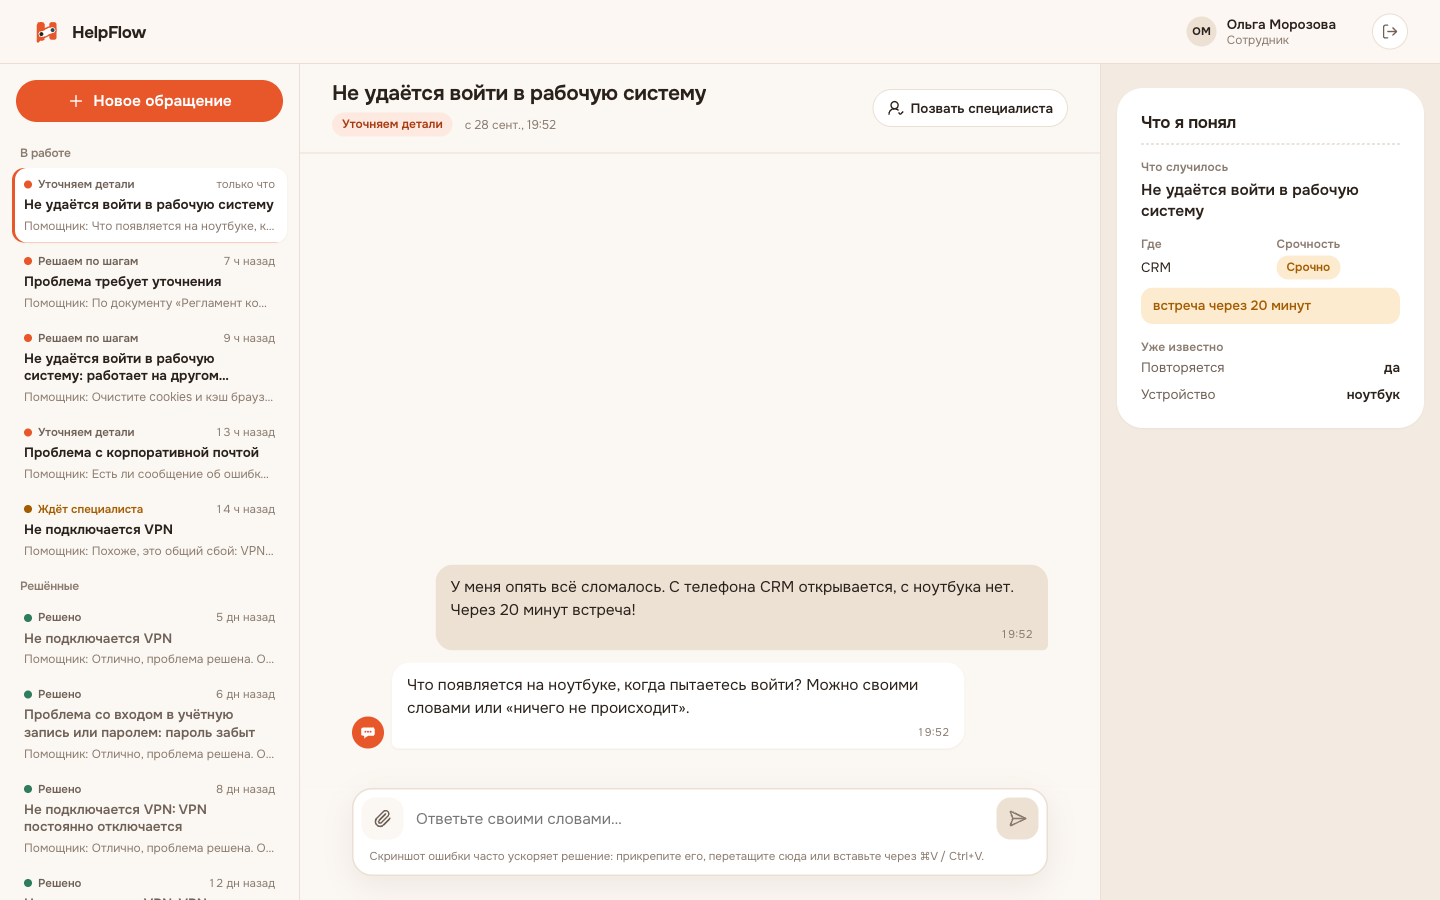
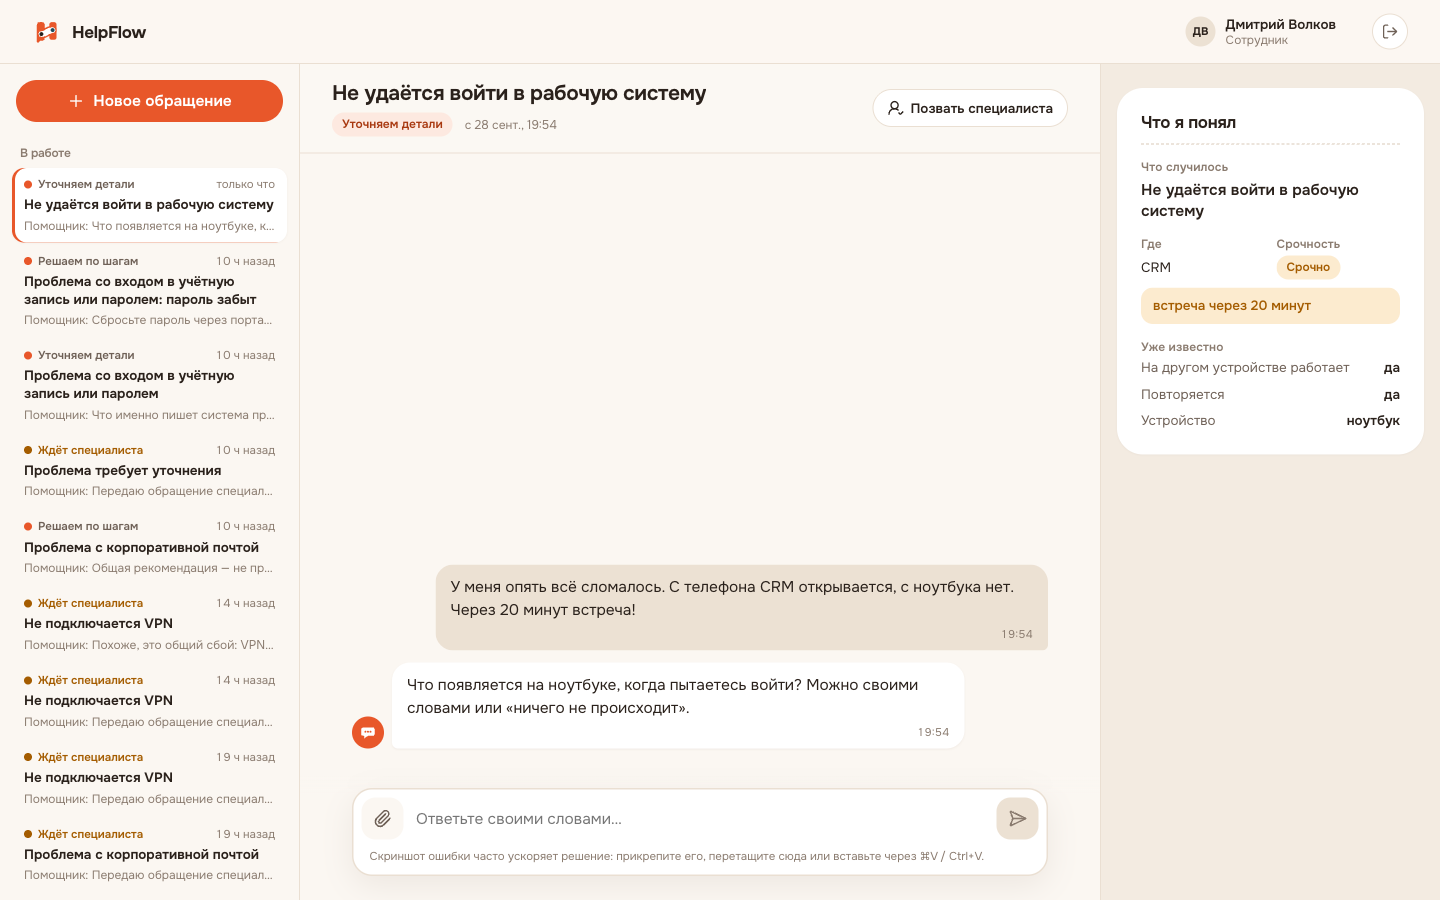
docs: fresh employee screenshots — known outage, quick replies, document answer

Changed region(s): [[0.0, 0.3111, 0.1875, 1.0], [0.75, 0.4044, 1.0, 0.5289], [0.8438, 0.0, 0.9062, 0.0622]]

diff --git a/README.md b/README.md
@@ -80,7 +80,11 @@ cd apps/api && PYTHONPATH=../../services/ai python -m app.eval_dialogues --seman
 
 | Приветствие | Шаг решения |
 |---|---|
-| ![Что случилось?](docs/screenshots/01-welcome.png) | ![Карточка шага](docs/screenshots/03-step.png) |
+| ![Что случилось? и известный сбой](docs/screenshots/01-welcome.png) | ![Карточка шага](docs/screenshots/03-step.png) |
+
+| Непонятный запрос — один вопрос с вариантами | Правила компании — ответ по документу с цитатой |
+|---|---|
+| ![Кнопки «На что это похоже?»](docs/screenshots/10-quick-replies.png) | ![Ответ по документу «Правила паролей»](docs/screenshots/11-document-answer.png) |
 
 **Специалист поддержки** работает с очередью (срочные наверху) и видит карточку от помощника: исходные слова, факты, вопросы и ответы, выполненные шаги, причину передачи. Он берёт обращение, отвечает в чат и закрывает с итогом. В профиле у него личные показатели без сравнения с коллегами.
 
